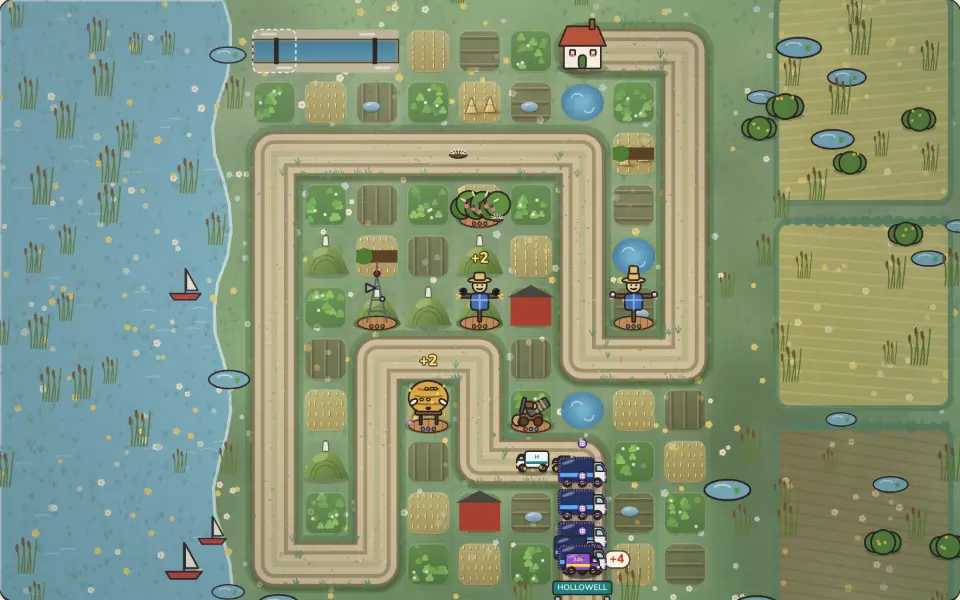
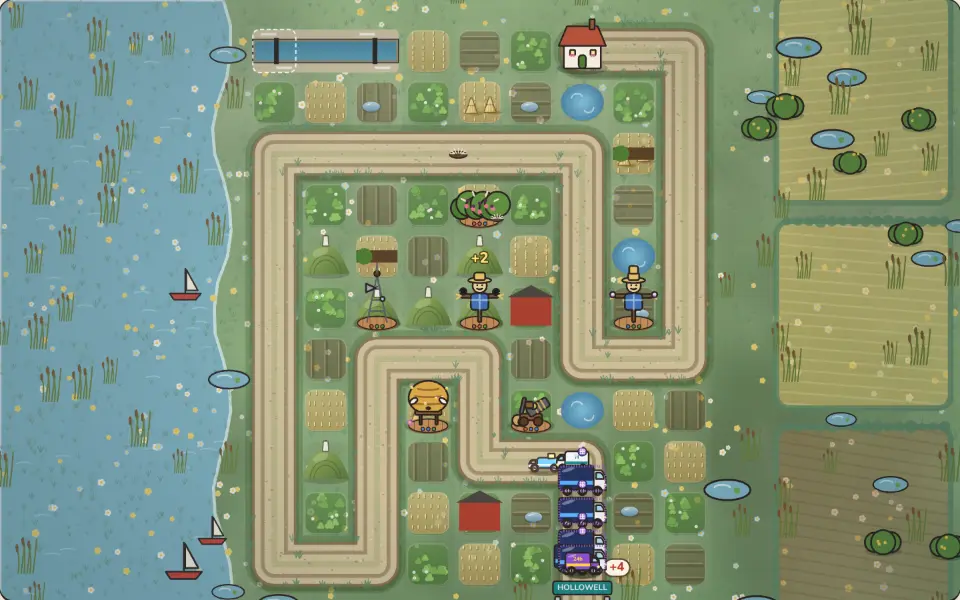
Hedgerow (plan item 152, slice 1): the flood and the sea fret show on the field
A flood that's up marks the stage data-twist-active="flood" with data-flooded (the plots under it), and the 2D
field draws them as deep water with a wet edge and ripples running across (it was a flat blue tile). A fog level's
sea fret is a drifting layer of three soft banks over the field (#field-fog; still under reduced motion), the same
in 2D and 3D. Dressing only: the rules and the tuner are untouched. Hedgerow key art re-shot (render.ts changed).
New e2e-site/hedgerow-twists.spec.ts; the Hedgerow site specs and 446 unit tests pass at P and D, bar
hedgerow-swarm at P, which times out on build without this change too. Shots of levels 34 and 16 at P and D.

CLAUDE.md: npm run keyart needs PLAYWRIGHT_CHROMIUM_PATH in this sandbox, or it hangs waiting for fonts.

Claude-Session: https://claude.ai/code/session_01SimvMN1RHBGCWN7Eo7MzhN

Changed region(s): [[0.5312, 0.72, 0.6562, 0.96], [0.4062, 0.57, 0.4688, 0.69]]

diff --git a/games/hedgerow/src/main.ts b/games/hedgerow/src/main.ts
@@ -62,6 +62,8 @@ import {
   landmarkAt,
   laneCellsOf,
   hasTwist,
+  flooded,
+  setPiece,
   pieRadius,
   pieUnlocked,
   place,
@@ -4052,6 +4054,34 @@ function runSpeed(g: Game): number {
   return capped ? 3 : speed;
 }
 
+// Plan item 152: the level's twists you can see on the field. A flood that's up marks the stage
+// `data-twist-active~="flood"` with the count of plots under it (the renderers draw the water); a fog level's
+// sea fret is a drifting layer over the field (`.field-fog`) that thickens as the round runs.
+let twistKey = "";
+function syncTwists(g: Game): void {
+  const flood = setPiece(g.level, "flood");
+  const under = flood ? flood.cells.filter(([c, r]) => flooded(g, c, r)).length : 0;
+  const active = [under > 0 ? "flood" : "", hasTwist(g.level, "fog") ? "fog" : ""].filter(Boolean).join(" ");
+  const key = `${active}|${under}`;
+  if (key === twistKey) return;
+  twistKey = key;
+  if (active) ui.stage.dataset.twistActive = active;
+  else delete ui.stage.dataset.twistActive;
+  if (under) ui.stage.dataset.flooded = String(under);
+  else delete ui.stage.dataset.flooded;
+  let fog = document.getElementById("field-fog");
+  if (hasTwist(g.level, "fog")) {
+    if (!fog) {
+      fog = document.createElement("div");
+      fog.id = "field-fog";
+      fog.className = "field-fog";
+      fog.setAttribute("aria-hidden", "true");
+      for (let i = 0; i < 3; i++) fog.appendChild(document.createElement("span"));
+      ui.stage.querySelector("#fx-layer")?.before(fog);
+    }
+  } else fog?.remove();
+}
+
 function frame(now: number): void {
   raf = requestAnimationFrame(frame);
   if (!game || !renderer) return;
@@ -4121,6 +4151,7 @@ function frame(now: number): void {
   }
   renderer.draw(g, paused || introHold ? 0 : dt * Math.min(speed, 2));
   syncCathSay(g, now);
+  syncTwists(g);
   drawGhost(g);
   drawDuel(g);
   if (!finished && !player && (g.phase === "won" || g.phase === "lost")) {

diff --git a/e2e-site/hedgerow-twists.spec.ts b/e2e-site/hedgerow-twists.spec.ts
@@ -1,0 +1,30 @@
+import { expect, test } from '@playwright/test'
+
+// Plan item 152: twists you can see. When a flood level's river rises its plots go under (the stage carries
+// data-twist-active="flood" and how many plots are flooded, and the 2D field draws them as water); a fog level's
+// sea fret drifts over the field as a layer at more than 0.3 opacity. Dressing only: the rules don't change.
+type W = { hedgerow?: { game: () => { wave: number; level: { setPieces?: Array<{ kind: string; wave?: number }> } } | null } }
+
+test('a flood level floods its plots once the river rises', async ({ page }) => {
+  await page.goto('/hedgerow/?2d&sandbox=1&level=34')
+  await page.waitForFunction(() => !!(window as unknown as W).hedgerow?.game(), null, { timeout: 30_000 })
+  const stage = page.locator('#stage')
+  await expect(stage).not.toHaveAttribute('data-twist-active', /flood/)
+  await page.evaluate(() => {
+    const g = (window as unknown as W).hedgerow!.game()!
+    g.wave = g.level.setPieces!.find((p) => p.kind === 'flood')!.wave!
+  })
+  await expect(stage).toHaveAttribute('data-twist-active', /\bflood\b/)
+  expect(Number(await stage.getAttribute('data-flooded'))).toBeGreaterThanOrEqual(1)
+  await expect(page.locator('#field-fog')).toHaveCount(0)
+})
+
+test('a fog level drifts a sea fret over the field', async ({ page }) => {
+  await page.goto('/hedgerow/?2d&sandbox=1&level=16')
+  await page.waitForFunction(() => !!(window as unknown as W).hedgerow?.game(), null, { timeout: 30_000 })
+  await expect(page.locator('#stage')).toHaveAttribute('data-twist-active', /\bfog\b/)
+  const fog = page.locator('#field-fog')
+  await expect(fog).toBeAttached()
+  expect(Number(await fog.evaluate((e) => getComputedStyle(e).opacity))).toBeGreaterThan(0.3)
+  expect(await fog.evaluate((e) => getComputedStyle(e).pointerEvents)).toBe('none')
+})

diff --git a/games/hedgerow/src/render.ts b/games/hedgerow/src/render.ts
@@ -1151,8 +1151,32 @@ export class Renderer {
     // Set pieces: floodwater over the plots, and the swing bridge (up and red while it's open).
     const flood = setPiece(level, "flood");
     if (flood && game.wave >= flood.wave) {
-      ctx.fillStyle = `rgba(79,147,184,${0.55 + Math.sin(t * 2) * 0.05})`;
-      for (const [c, r] of flood.cells) ctx.fillRect(X(c) + 1, Y(r) + 1, X(c + 1) - X(c) - 2, Y(r + 1) - Y(r) - 2);
+      // Plan item 152: the river over its banks: deep water on each plot, a pale wet edge, and ripples that run
+      // across it (each plot's on its own beat), so the flood reads as water, not a blue tile.
+      const cw = X(1) - X(0);
+      const ch = Y(1) - Y(0);
+      for (const [c, r] of flood.cells) {
+        const x0 = X(c) + 1, y0 = Y(r) + 1, w = cw - 2, h = ch - 2;
+        ctx.fillStyle = `rgba(63,128,166,${0.72 + Math.sin(t * 2 + c) * 0.04})`;
+        ctx.beginPath();
+        ctx.roundRect(x0, y0, w, h, Math.min(w, h) * 0.22);
+        ctx.fill();
+        ctx.strokeStyle = "rgba(214,236,246,0.55)";
+        ctx.lineWidth = Math.max(1, cw * 0.04);
+        ctx.stroke();
+        ctx.strokeStyle = "rgba(226,243,250,0.6)";
+        ctx.lineWidth = Math.max(1, cw * 0.03);
+        for (let k = 0; k < 2; k++) {
+          const phase = (t * 0.35 + (c * 0.37 + r * 0.61) + k * 0.5) % 1;
+          const yy = y0 + h * (0.28 + k * 0.4);
+          const xx = x0 + w * (0.12 + phase * 0.5);
+          ctx.beginPath();
+          ctx.moveTo(xx, yy);
+          ctx.quadraticCurveTo(xx + w * 0.09, yy - h * 0.07, xx + w * 0.18, yy);
+          ctx.quadraticCurveTo(xx + w * 0.27, yy + h * 0.07, xx + w * 0.36, yy);
+          ctx.stroke();
+        }
+      }
     }
     const bridge = setPiece(level, "bridge");
     if (bridge) {

diff --git a/games/hedgerow/src/styles.css b/games/hedgerow/src/styles.css
@@ -4628,3 +4628,34 @@ img.act-scene {
   inset: 0;
   border-radius: 0;
 }
+
+/* Plan item 152: a sea fret over the field on a fog level. Three soft banks drift across it at their own pace,
+   under the floaters and the HUD; the towers' reach is already cut by the twist (twistMods). */
+.field-fog {
+  position: absolute;
+  inset: 0;
+  overflow: hidden;
+  pointer-events: none;
+  opacity: 0.9;
+}
+.field-fog span {
+  position: absolute;
+  left: -40%;
+  width: 90%;
+  height: 52%;
+  border-radius: 50%;
+  background: radial-gradient(closest-side, var(--cream-a45), var(--cream-a45) 45%, transparent);
+  box-shadow: 0 0 60px 30px var(--cream-a45) inset;
+  filter: blur(14px);
+  animation: fret-drift 46s linear infinite;
+}
+.field-fog span:nth-child(1) { top: 4%; animation-delay: -6s; }
+.field-fog span:nth-child(2) { top: 34%; width: 110%; animation-duration: 63s; animation-delay: -30s; }
+.field-fog span:nth-child(3) { top: 62%; animation-duration: 54s; animation-delay: -18s; }
+@keyframes fret-drift {
+  from { transform: translateX(0); }
+  to { transform: translateX(150%); }
+}
+@media (prefers-reduced-motion: reduce) {
+  .field-fog span { animation: none; left: 5%; }
+}

diff --git a/CLAUDE.md b/CLAUDE.md
@@ -73,6 +73,7 @@ Add short, durable notes here that will help later sessions, such as commands th
 - **The repo is public (owner, 2026-10-06)** so Actions minutes are free. Never commit anything private: secrets, the owner's email, personal data. CI skips commits that only touch `*.md`, `.build-lock` or `docs/` and cancels superseded runs, so `origin/ci-status` has no entry for notes-only commits (read the latest code commit's). If every CI job fails in about 3 s with "recent account payments have failed or your spending limit needs to be increased", it's the owner's GitHub billing, not the code: log it under Blocked and rely on local `npm run check`/`gates`.
 - **Hedgerow 2 Fleet** (M2): levels with `Level.rules === "fleet"` (act 1 so far) use `fleet.ts` (rungs, FV, `FLEET_TOWERS`) and `rounds.ts` (the Round Book, `windowFor`); damage goes through `hitEnemy`, the tuner fits `START_K` (never HP) for them. Mechanics tests that need old act-1 behaviour use `classic(id)` in `tests/hedgerow.test.ts`.
 - **Key art is checked for staleness** (`tests/keyart-fresh.test.ts`): changing a file in `scripts/keyart-sources.mjs`'s list (Cathnivore's region art, Runnel's valley/garden/ground/water, Hedgerow's `render.ts`/`sprites.ts`/`terrain.ts`, NIGHT SHIFT's market keyart) fails it until that game is re-shot with `npm run keyart <game>` (posters come from each game's `?keyart` frame).
+- `npm run keyart` hangs on 'waiting for fonts to load' unless `PLAYWRIGHT_CHROMIUM_PATH` is set (the script launches that browser); it can serve from a `--only=<game>` build on :4186 (`SITE_URL` overrides the port).
 - **Key art:** `npm run keyart` (`scripts/keyart.mjs`, needs a `dist-site` preview on :4186) re-shoots the portfolio and /games/ game frames into `portfolio/public/work/games-<game>[-960|-640].webp`; run it on `build` when a game's look changes, look at the files, commit them.
 - **Release sessions:** `npm run release` checks out `main` mid-run, so don't touch the main checkout while it runs. Run it in the background and work in a worktree (`git worktree add <scratch>/wt -b wip build`, symlink `node_modules`), preview its `build:site` on a port other than 4173/4175 (the gates reuse those), and push it with `git push origin HEAD:build`.
 - After any CSS change run `npx vitest run tests/ui-css-lint.test.ts` (and `tests/cathode-type.test.ts` for NIGHT SHIFT CSS: no raw px, write sizes in `var(--u)`): it ratchets raw colours, px font sizes and literal z-index per file (use the game's tokens and color-mix), and CI fails on it even when every targeted check passed.

diff --git a/docs/plan/two-week-plan.md b/docs/plan/two-week-plan.md
@@ -1835,7 +1835,7 @@ The items come from fresh-eyes audits on 2026-11-01 and 2026-11-02 (items 25-32:
 - **Accept:** 4 or more `[data-valley-folk]`; a watered field gets `data-tended`; no folk meets a tile, Cath or item 142's features; no layout shift; shots P and D before and after a solve.
 - **Size:** 2
 
-## 152. [ ] Hedgerow: twists you can see on the field *(lane B, in progress)*
+## 152. [ ] Hedgerow: twists you can see on the field *(lane B, in progress)* *(slice 1, 2026-11-05 08:22 lane B: the stage carries `data-twist-active` (flood once the river is up, fog on a fog level) and `data-flooded` with the plots under; 2D draws the flood as deep water with a wet edge and running ripples (was a flat blue tile); a fog level's sea fret is a drifting layer of three banks over the field (`#field-fog`, opacity 0.9, pointer-events none, still under reduced motion), in 2D and 3D alike; Hedgerow key art re-shot; `e2e-site/hedgerow-twists.spec.ts`; shots `hg-34-*`, `hg-16-*`. Open: the 3D flood swelling the ford, the fret dimming the range rings, and Cath's warning the round before)*
 - **Why:** `hedge-l34-2d-D` (1270-1345 x 385-405): 'The wall: FLOOD' is only a tag; the river (880-1080 x 75-890) never rises, and Sea Fret shows no fog.
 - **Build:**
   - A flood that swells the ford and covers the edge plots for its rounds.
